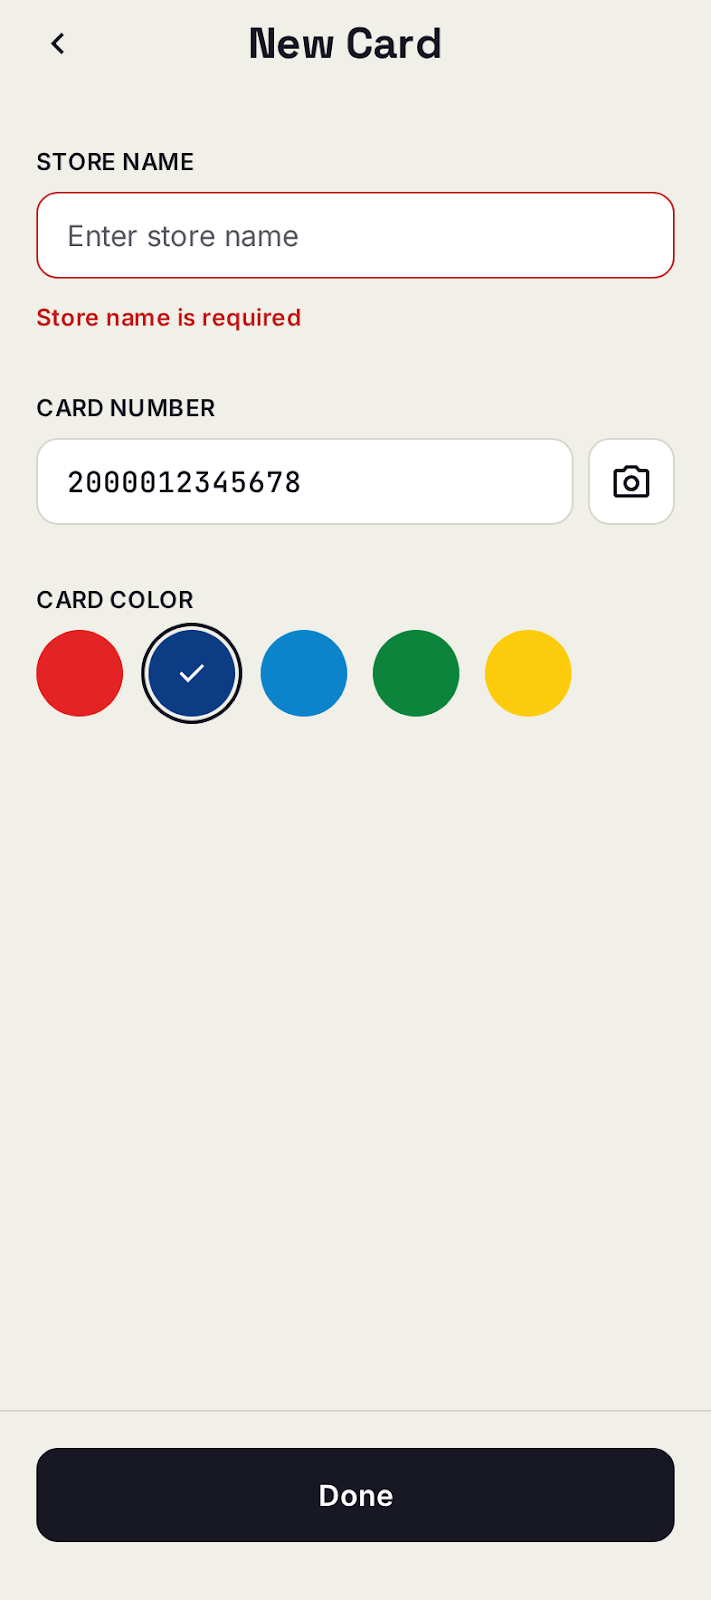
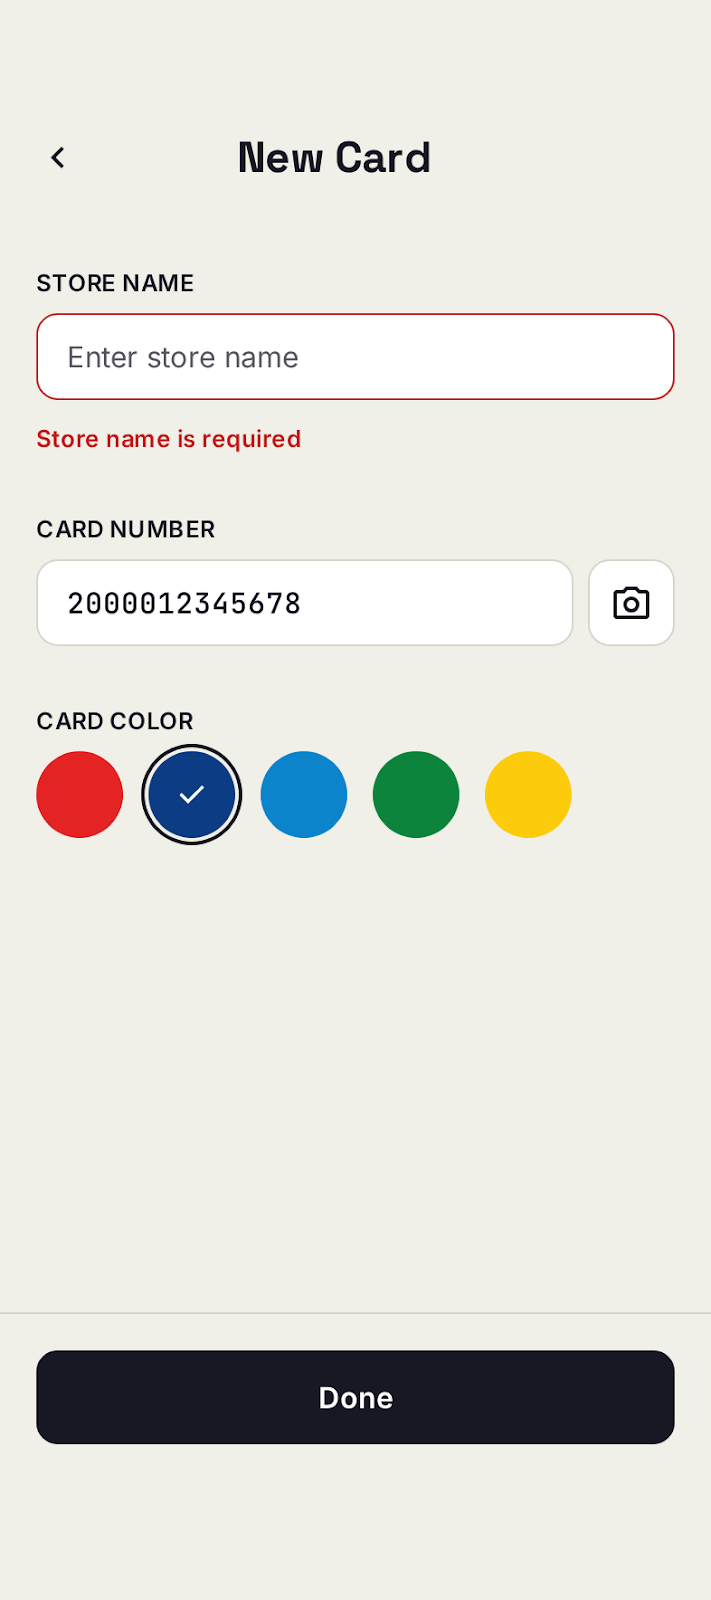
docs: regenerate the three form states from the corrected-geometry seed
The canvas was cleared to 1c57d246 ("New Card Form (Fixed Geometry)") and
ERROR, FILLED and SAVING were regenerated from it via generate_variants
(REFINE + TEXT_CONTENT, variantCount 1, GEMINI_3_1_PRO).

The saving spinner is now #FFFFFF, luma 255 — it was #DDDDDF. It came
right because the prompt named the value it had drifted to and forbade it
by hex, which is the reusable move.

What did not change: the frames are still 393x884, a third independent
confirmation of the injected min-height floor; and the error red is still
#BF0000 even though #C41E1E was spelled three times in the same prompt.
That is the semantic-token caveat surviving a controlled retest — owning
the role beats spelling the hex.

Cream, ink and all five swatches are pixel-exact in all four frames, and
the footer band lands at y=1351..1442 in all four, so the set is aligned.

Two MCP mechanics recorded: generate_variants can time out at the MCP
layer and still land the screen (poll list_screens, never retry, or you
mint a duplicate), and it has no designSystem parameter.

diff --git a/docs/design/cardi/README.md b/docs/design/cardi/README.md
@@ -266,6 +266,10 @@ Seed chain — each hop asks for the smallest possible delta:
 | 3 FILLED  | `a541546fbb6348c4aa7d35a46092fe5b` | frame 1     | `frames/03-filled.png`  |
 | 4 SAVING  | `cafd14e73078487ba0ef969d79204ec3` | **frame 3** | `frames/04-saving.png`  |
 
+> **Superseded 2026-08-15.** All four of the screens above were deleted, and the set was
+> regenerated from the corrected-geometry seed. See _The regenerated set_ at the end of this
+> document for the current ids — the PNGs in `frames/` are now the new renders.
+
 The PNGs in `frames/` are 711 × 1600 renders committed to the repo because Stitch's
 screenshot URLs are ephemeral `googleusercontent` links that will rot. Fetch a fresh, larger
 render by appending `=s1600` (or `=s2048`) to a screenshot `downloadUrl`.
@@ -356,6 +360,51 @@ block inside the reference file itself — two near-identical 575-line copies co
 Open `cardi-form-frames.html?probe`; expect `size=393x852`, `chevronL=20.0`, `labelL=20.0`,
 `inputL=20.0`, `btnL=20.0`, `btnH=52` on all four.
 
+### The regenerated set — 2026-08-15, from the corrected-geometry seed
+
+The canvas was cleared to a single screen, `1c57d246…` "New Card Form (Fixed Geometry)", and
+the three states were regenerated from it with `generate_variants` — `creativeRange: REFINE`,
+`aspects: ["TEXT_CONTENT"]`, `variantCount: 1`, `modelId: GEMINI_3_1_PRO`.
+
+| frame     | screen id                          | seeded from      | local copy              |
+| --------- | ---------------------------------- | ---------------- | ----------------------- |
+| 1 DEFAULT | `1c57d246642e49d596edfc95c8dbb96f` | the geometry fix | `frames/01-default.png` |
+| 2 ERROR   | `3805431b57c441e9a133df7572c9e99b` | frame 1          | `frames/02-error.png`   |
+| 3 FILLED  | `6d4cfe6e04794bf093c14dee6ed9e265` | frame 1          | `frames/03-filled.png`  |
+| 4 SAVING  | `d39488ce83bc40dfab0a2851e940abde` | **frame 3**      | `frames/04-saving.png`  |
+
+**The spinner is fixed. The geometry is not. The error red is not.** Measured on the new
+renders:
+
+| check                         | result                                                                  |
+| ----------------------------- | ----------------------------------------------------------------------- |
+| saving spinner                | **`#FFFFFF`, luma 255** — was `#DDDDDF`. Fixed.                         |
+| cream, ink, all five swatches | **pixel-exact in all four frames**                                      |
+| footer band                   | `y=1351..1442` **identical in all four** — the set is truly aligned     |
+| geometry                      | `711 × 1600` = **393 × 884**, all four. Third independent confirmation. |
+| error red                     | **still `#BF0000`** against `#C41E1E`                                   |
+
+The spinner fix is the transferable bit: it came right because the prompt **named the value
+it had drifted to and forbade it** ("pure white `#FFFFFF` — not grey, not `#DDDDDF`"). The
+error red did not come right, even though `#C41E1E` was spelled three times in the same
+prompt. That is the semantic-token caveat holding under a controlled retest: `error` is a
+role the theme owns, and owning the role beats spelling the hex.
+
+**Two MCP mechanics worth keeping.**
+
+- **`generate_variants` can time out at the MCP layer and still land the screen.** FILLED
+  returned `The operation timed out`, and the screen existed server-side moments later. Poll
+  `list_screens` — **do not retry**, or you will mint a duplicate. This is different from
+  `generate_screen_from_text`, which times out and lands nothing.
+- **`generate_variants` has no `designSystem` parameter**, contrary to the note further up
+  this document. The seed screen carries the system; there is nothing to pass.
+
+**One divergence to hold in view.** The Fixed Geometry seed reserves the 59px / 34px insets
+but leaves them **blank** — its own prompt says "keeping the canvas blank as requested" —
+whereas `frames/cardi-form-frames.html` now draws the status bar and home indicator into
+them. Every Stitch render from here will differ from the reference at the top and bottom of
+the frame. That is intended, and the reference is the one that is right.
+
 ### Still open
 
 1. ~~Generate the four state frames and judge them~~ — **done 2026-08-14**; measured and
@@ -366,31 +415,16 @@ Open `cardi-form-frames.html?probe`; expect `size=393x852`, `chevronL=20.0`, `la
    default state; repeatedly raised, never designed. This is now the next thing to make,
    and it needs a _new_ seed — no existing screen is close enough to vary from.
 3. Re-verify the Stitch design system hasn't been clobbered again since 2026-08-12.
-4. **The Stitch canvas is now ten screens and needs a clear-out.** Inventory read over MCP
-   on 2026-08-15 — **every one of them is `height: 1768`:**
+4. ~~The Stitch canvas is ten screens and needs a clear-out~~ — **done 2026-08-15.** The
+   superseded decoy (`b1a1e6e6…` "Add Card Form" — barcode format row, "Save card", an
+   invented favourites toggle, a baked-in red error, and freshly repainted by
+   `apply_design_system` so that it _looked_ trustworthy) was deleted along with three
+   unlabelled duplicates and the four original frames. Stitch has **no delete-screen over
+   MCP**, so this was done in the UI. The canvas is now the geometry seed, the three
+   regenerated states, and the DS text render.
 
-   | screen id   | title                          | size       | what it is                          |
-   | ----------- | ------------------------------ | ---------- | ----------------------------------- |
-   | `1bed6a85…` | New Card Form                  | 786 × 1768 | frame 1 DEFAULT, accepted           |
-   | `66fd99fd…` | New Card Form (Error State)    | 786 × 1768 | frame 2 ERROR, accepted             |
-   | `a541546f…` | New Card Form (Filled)         | 786 × 1768 | frame 3 FILLED, accepted            |
-   | `cafd14e7…` | New Card Form (Saving State)   | 786 × 1768 | frame 4 SAVING, accepted            |
-   | `1c57d246…` | New Card Form (Fixed Geometry) | 786 × 1768 | the geometry experiment — see above |
-   | `affad33e…` | New Card Form (Error State)    | 786 × 1768 | **duplicate**                       |
-   | `c5beeb02…` | New Card Form (Filled)         | 786 × 1768 | **duplicate**                       |
-   | `fb508779…` | New Card Form (Saving State)   | 780 × 1768 | **duplicate**                       |
-   | `b1a1e6e6…` | Add Card Form                  | 780 × 1768 | **the decoy — see below**           |
-   | `70e27310…` | cardi-design-system.md         | 2560 ×2300 | the DS text render                  |
-
-   **The decoy is the dangerous one.** `b1a1e6e6…` is the **superseded** design — barcode
-   format row, "Save card", an invented favourites toggle, a baked-in red error. On
-   2026-08-15 `apply_design_system` was run across the canvas, so it is now _correctly
-   themed and structurally wrong_: freshly painted, and therefore more likely to be trusted
-   than before. Three unlabelled duplicates compound it. Stitch has **no delete-screen over
-   MCP**, so clearing this means the UI or a fresh project.
-
-   Also confirmed the same day: `apply_design_system` is **per-screen only** — it does not
-   update `project.designTheme`, which remains stale. There is no MCP path to the project
+   Still true and still worth knowing: `apply_design_system` is **per-screen only** — it does
+   not update `project.designTheme`, which remains stale. There is no MCP path to the project
    default; that really is UI-only, and the canvas is inert to synthetic clicks.
 
 5. Decide the `orange` / `grey` → Cardì card-colour migration before the tokens PR.
